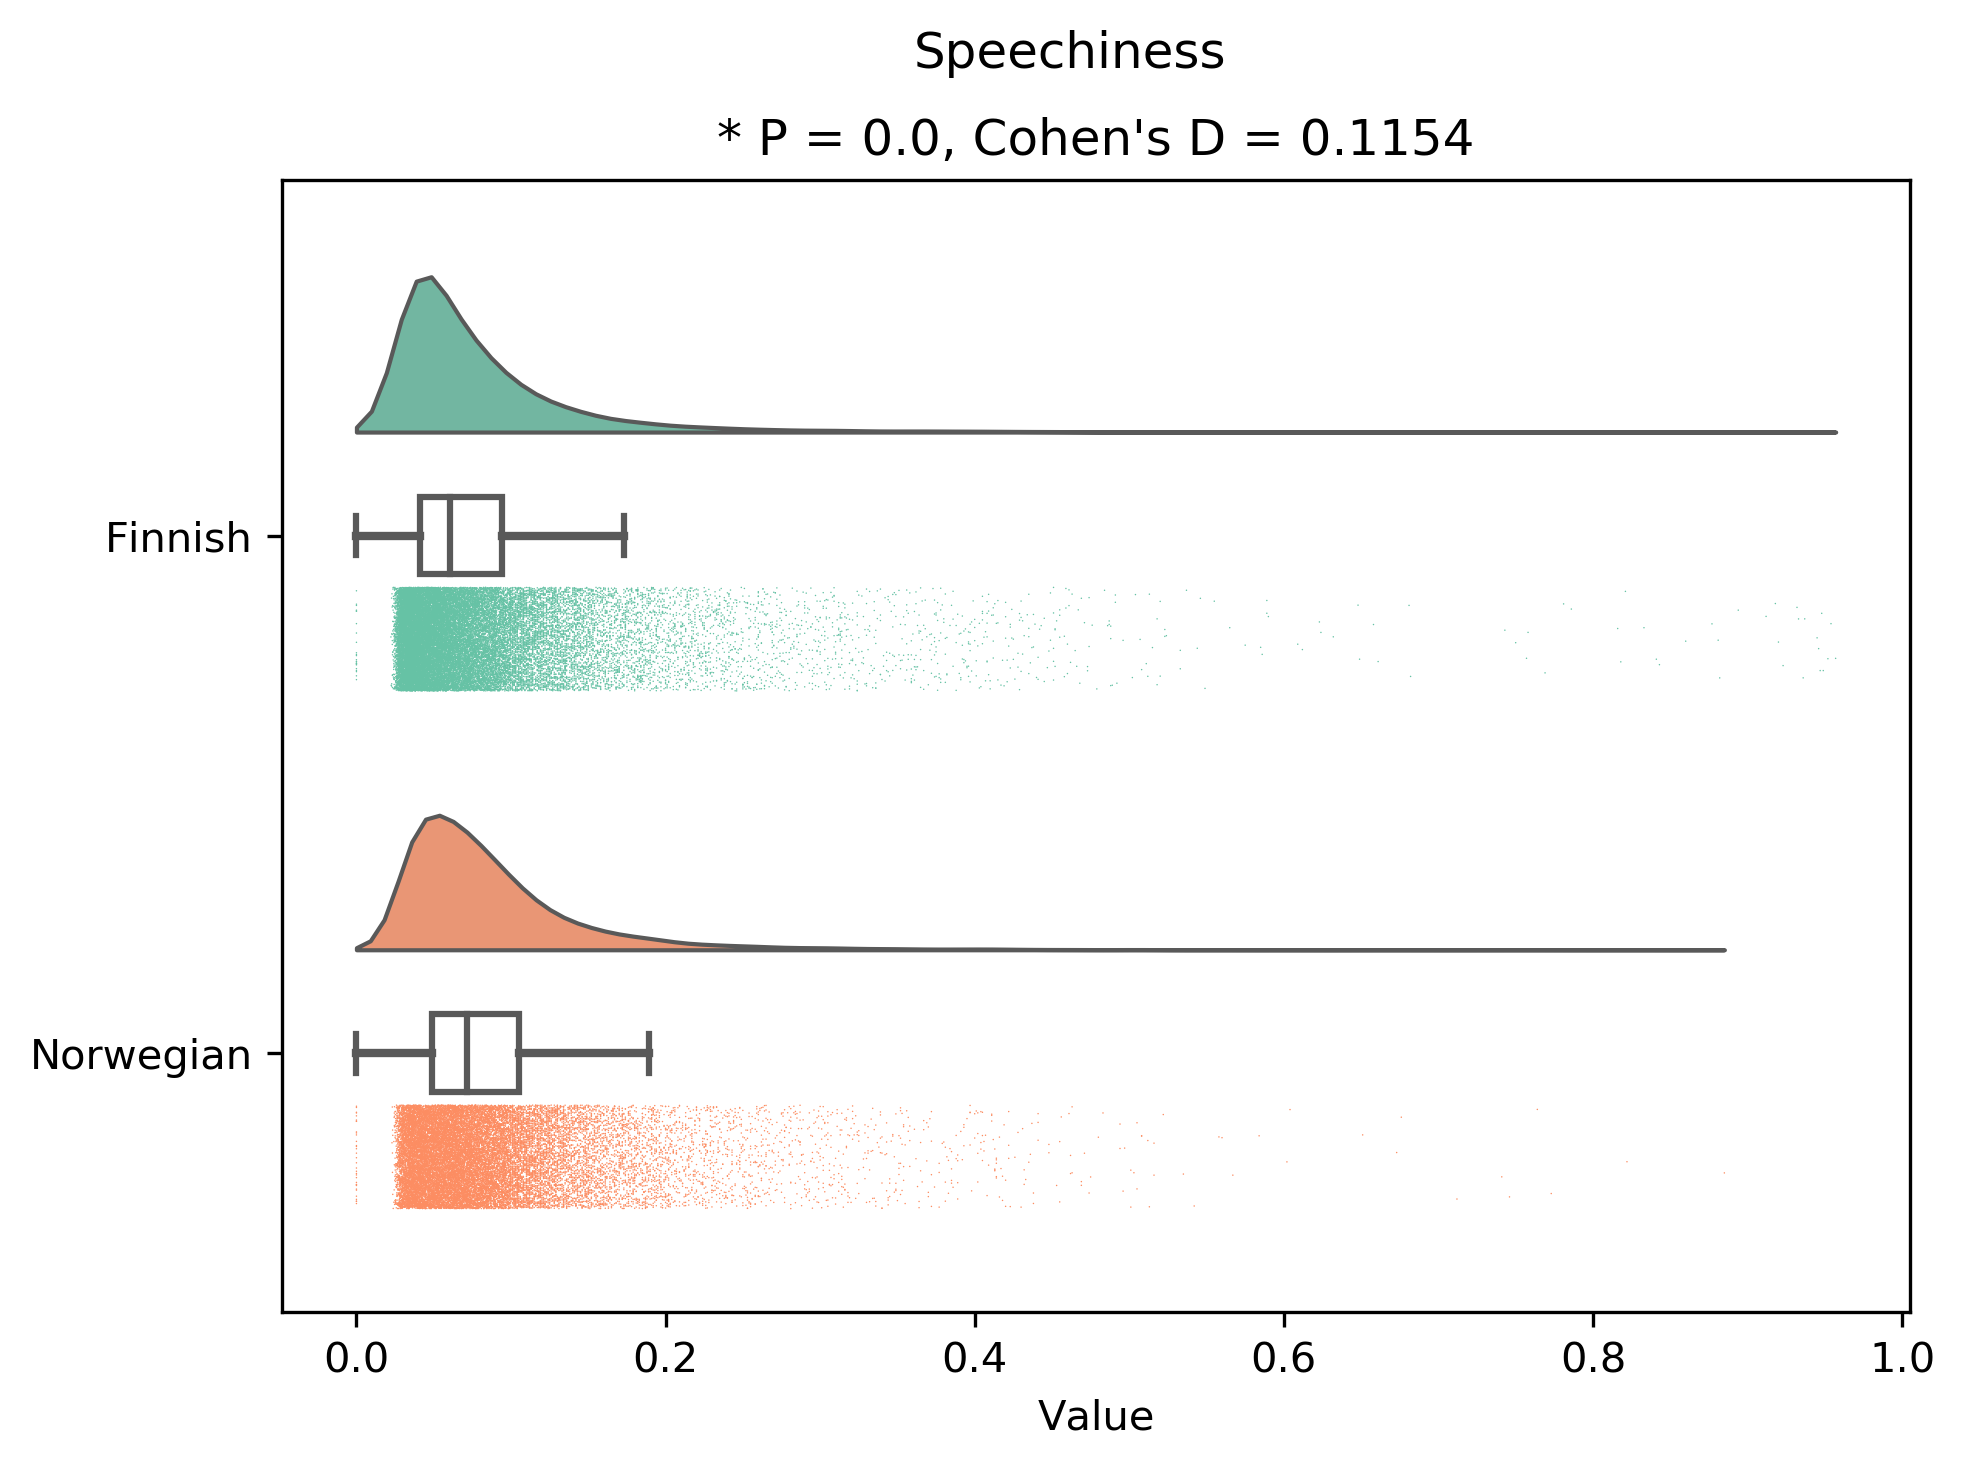
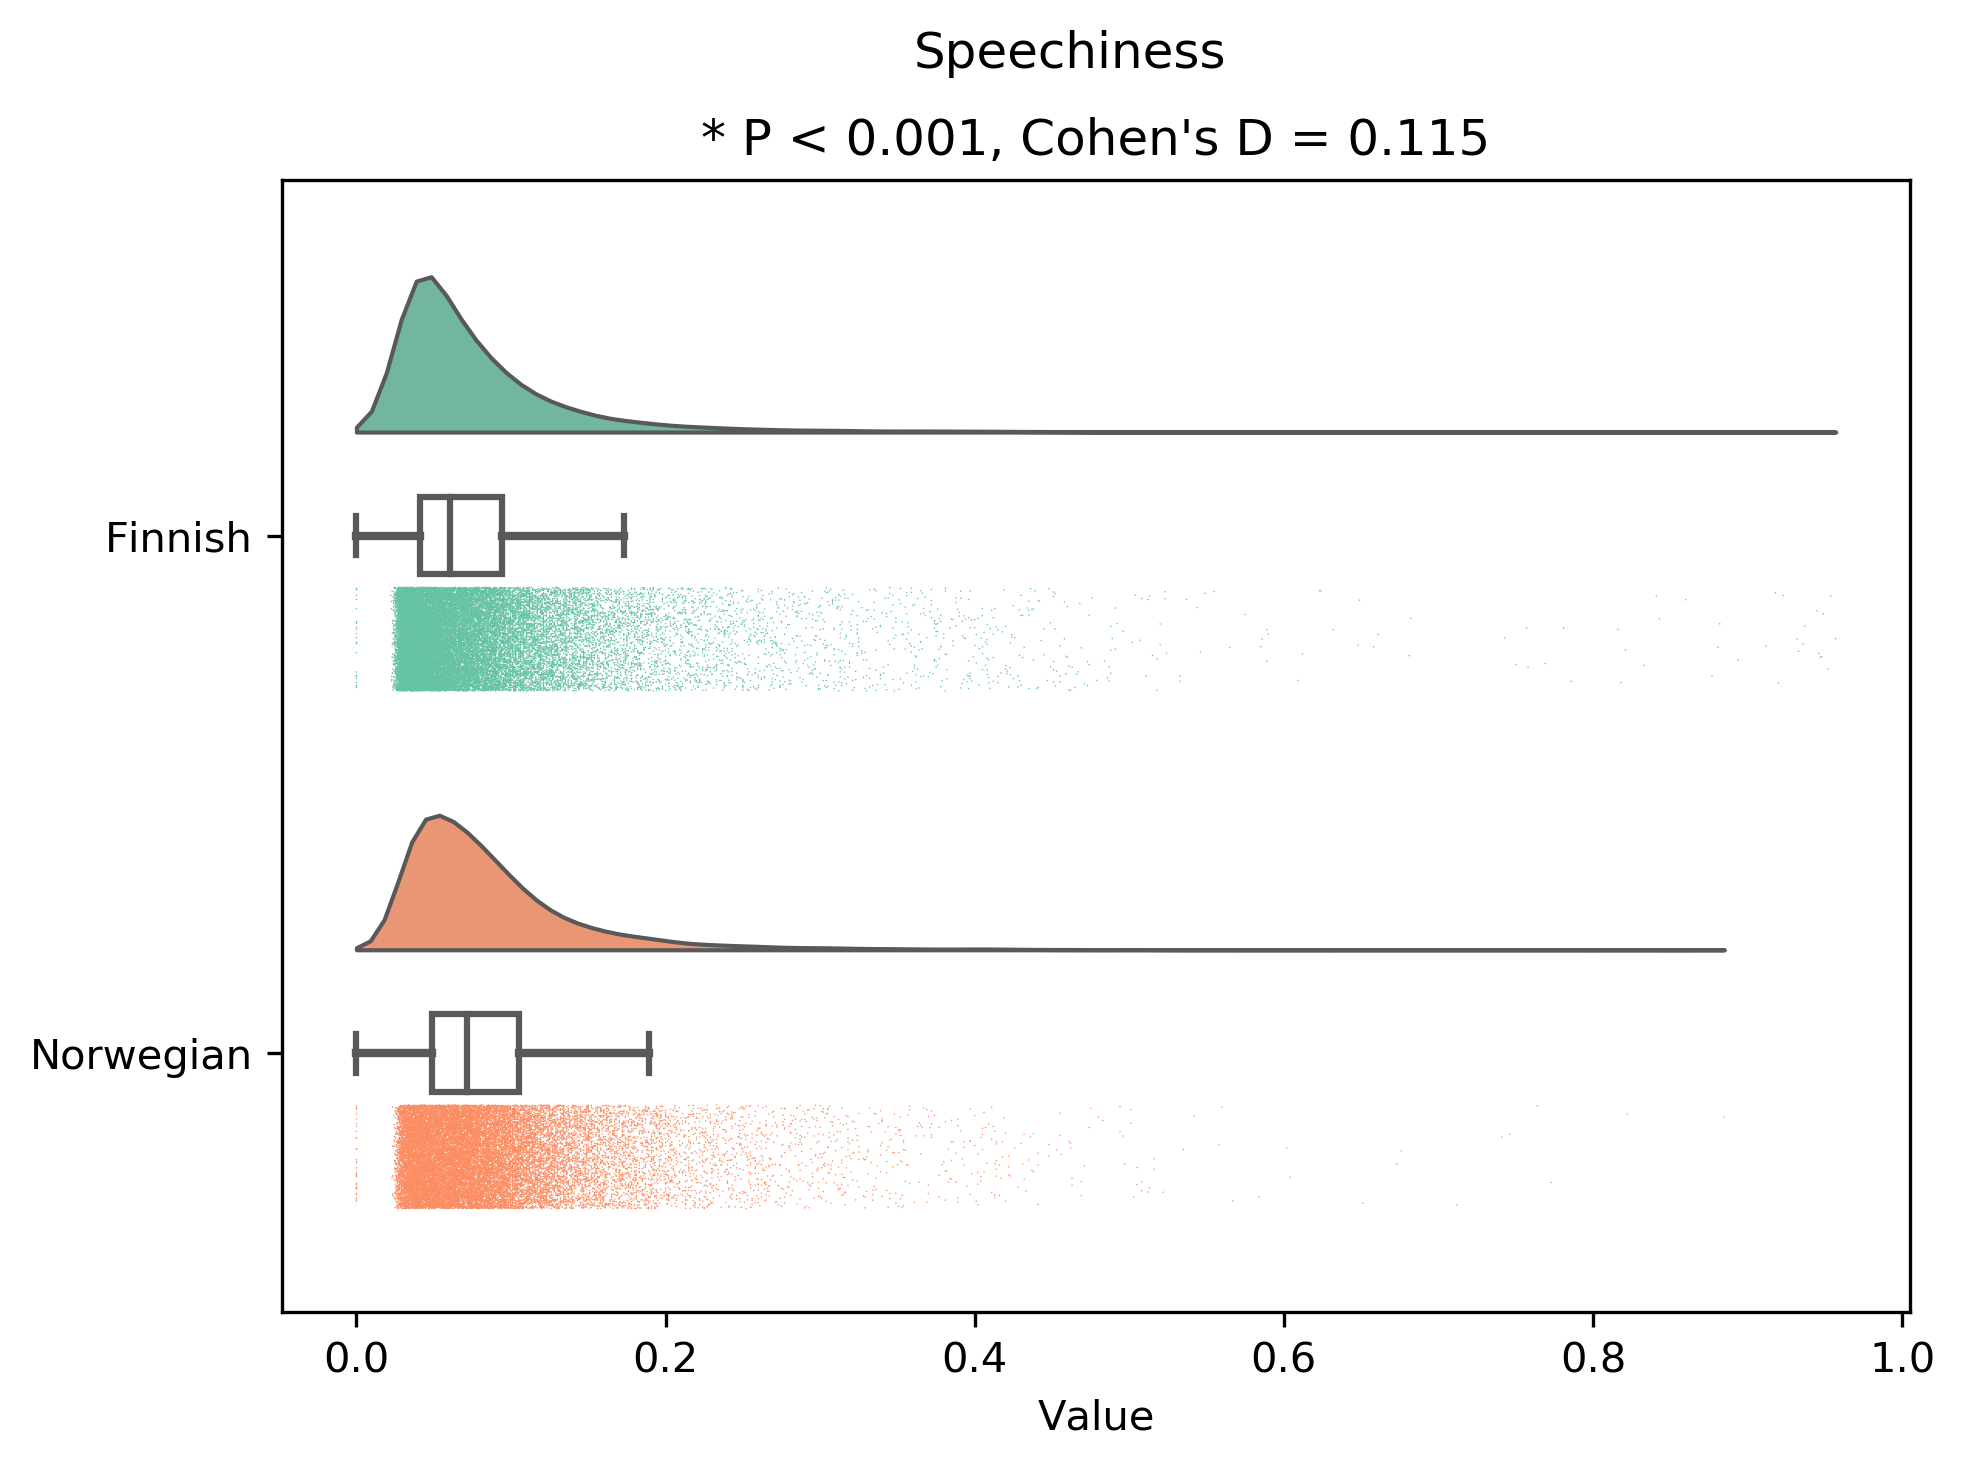
now with plots

Changed region(s): [[0.1863, 0.7357, 0.4656, 0.8277], [0.3725, 0.0613, 0.745, 0.1226], [0.2173, 0.3985, 0.4346, 0.4905]]

diff --git a/GSA_analyseDataset.py b/GSA_analyseDataset.py
@@ -193,10 +193,18 @@ for thisFeature in features:
 		signifStar = '* '
 	# get p-value
 	pVal = thisStat['p-corr']
+	# need to format the pVal a bit, since they are quite low numbers, and P=0.0 doesn't look good
+	# if pVal is below 0.0001, then print as p < 0.001
+	if float(pVal.round(3))<0.001:
+		pVal = '< 0.001'
+	else:
+		pVal = '= ' + str(float(pVal.round(3)))
+	
+	
 	# get Cohen's d-value
 	dVal = thisStat['cohen-d']
 	# make a string with the statistics
-	statText = signifStar + 'P = ' + str(float(pVal.round(4))) + ', Cohen\'s D = ' + str(float(dVal.round(4)))
+	statText = signifStar + 'P ' + pVal + ', Cohen\'s D = ' + str(float(dVal.round(3)))
 	# add title
 	plt.suptitle(thisFeature.capitalize())
 	# add statistics
